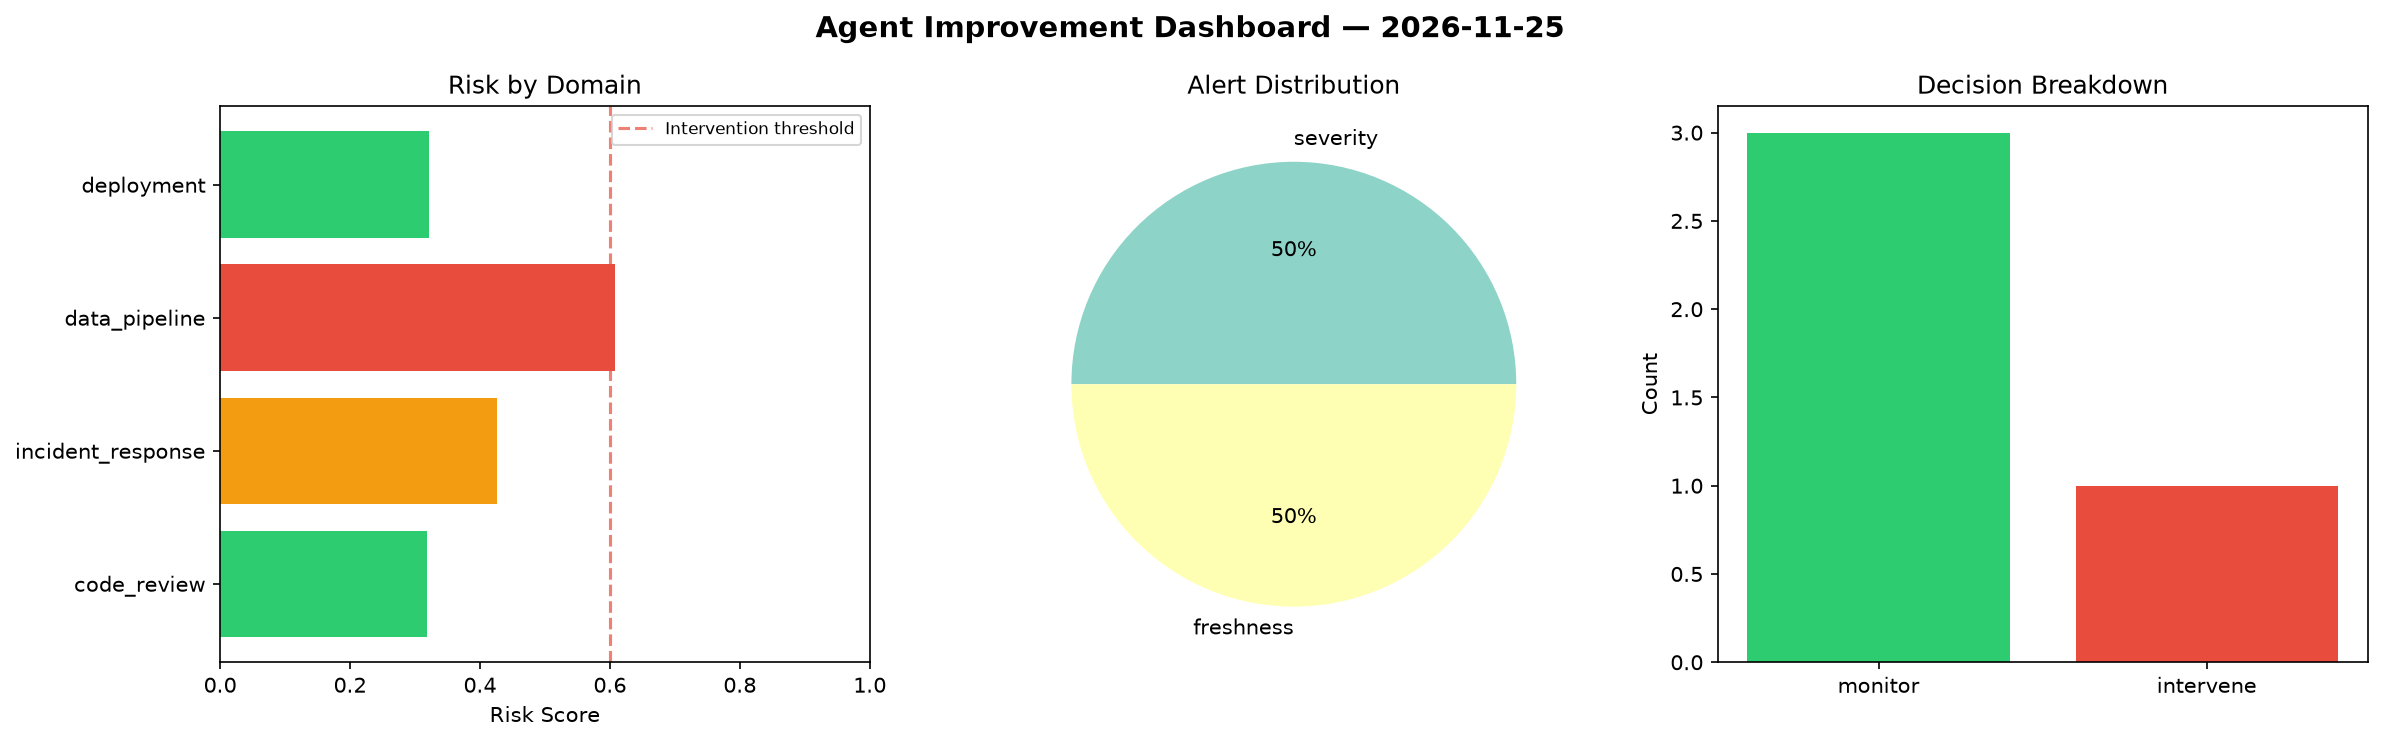
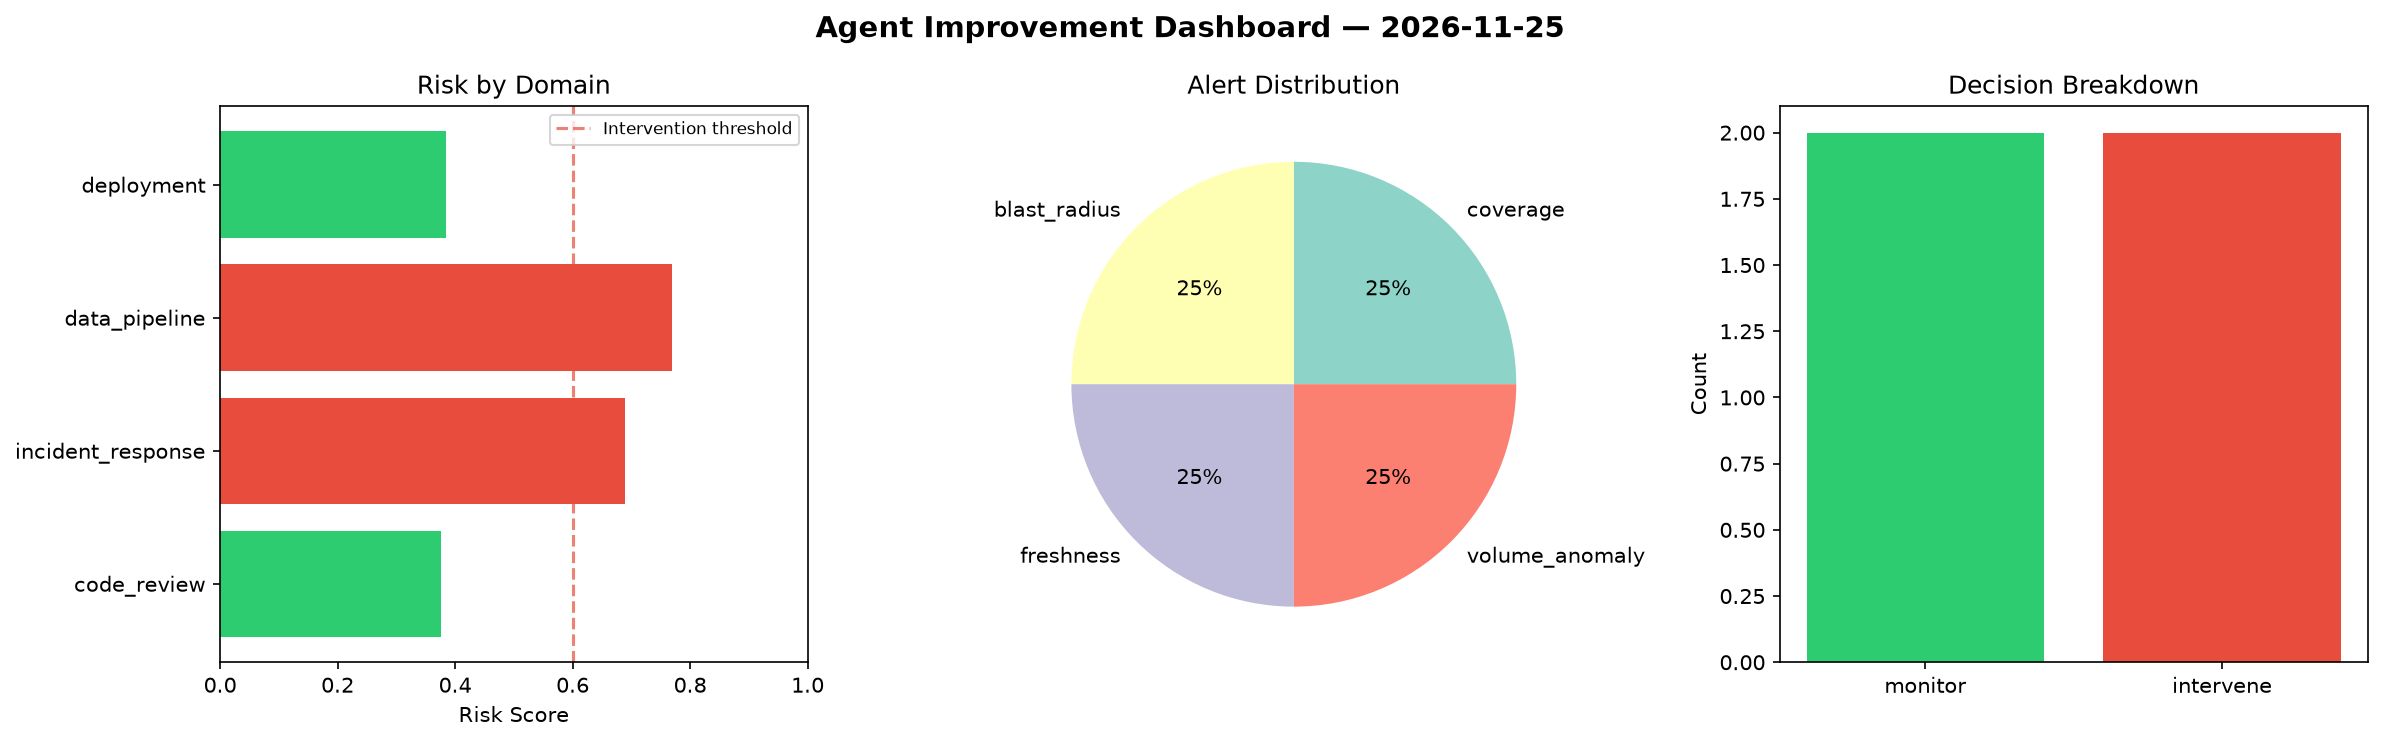
agent-improvement: daily cycle 2026-11-25T11:13

diff --git a/logs/2026-11-25.md b/logs/2026-11-25.md
@@ -1,6 +1,6 @@
 # Agent Improvement Report — 2026-11-25
 
-**Cycle ID:** `c4973040` | **Avg Risk:** 0.4183 | **Interventions:** 1/4
+**Cycle ID:** `6e7fa5f3` | **Avg Risk:** 0.5547 | **Interventions:** 2/4
 
 ![Dashboard](2026-11-25_dashboard.png)
 
@@ -10,18 +10,18 @@
 
 | Domain | Risk Score | Decision | Alerts |
 |--------|-----------|----------|--------|
-| code_review | 0.3188 | monitor | none |
-| incident_response | 0.4264 | monitor | severity |
-| data_pipeline | 0.6072 | intervene | freshness |
-| deployment | 0.321 | monitor | none |
+| code_review | 0.3763 | monitor | coverage |
+| incident_response | 0.6895 | intervene | blast_radius |
+| data_pipeline | 0.7691 | intervene | freshness, volume_anomaly |
+| deployment | 0.3838 | monitor | none |
 
 ## Delta vs Yesterday
 
 | Domain | Today | Yesterday | Change |
 |--------|-------|-----------|--------|
-| code_review | 0.3188 | 0.359 | 📉 -11.2% |
-| incident_response | 0.4264 | 0.5759 | 📉 -26.0% |
-| data_pipeline | 0.6072 | 0.612 | 📉 -0.8% |
-| deployment | 0.321 | 0.3931 | 📉 -18.3% |
+| code_review | 0.3763 | 0.359 | 📈 4.8% |
+| incident_response | 0.6895 | 0.5759 | 📈 19.7% |
+| data_pipeline | 0.7691 | 0.612 | 📈 25.7% |
+| deployment | 0.3838 | 0.3931 | 📉 -2.4% |
 
 **Refinement:** `{'adjustment': 'tighten_thresholds', 'trend': 'degrading', 'window': 4}`
